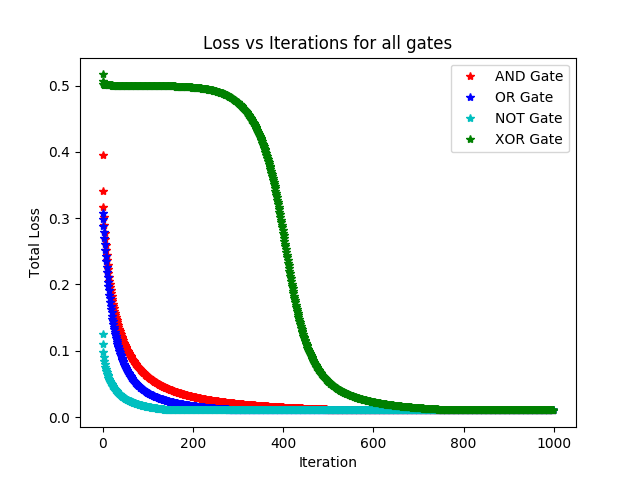
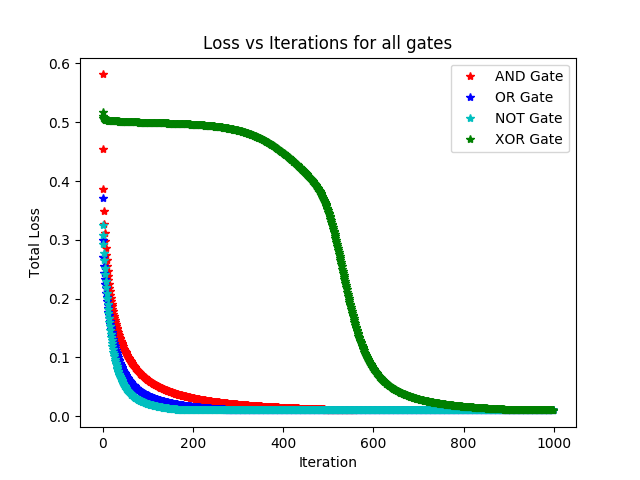
update

diff --git a/hwk3/logic_gates.py b/hwk3/logic_gates.py
@@ -32,6 +32,8 @@ class AND:
                 self.and_nn.forward(dataset)
                 self.and_nn.backward(target)
                 self.and_nn.updateParams(1)
+            else:
+                break
             line, = plt.plot(i, self.and_nn.total_loss, 'r*')
         line.set_label("AND Gate")
         plt.xlabel('Iteration')
